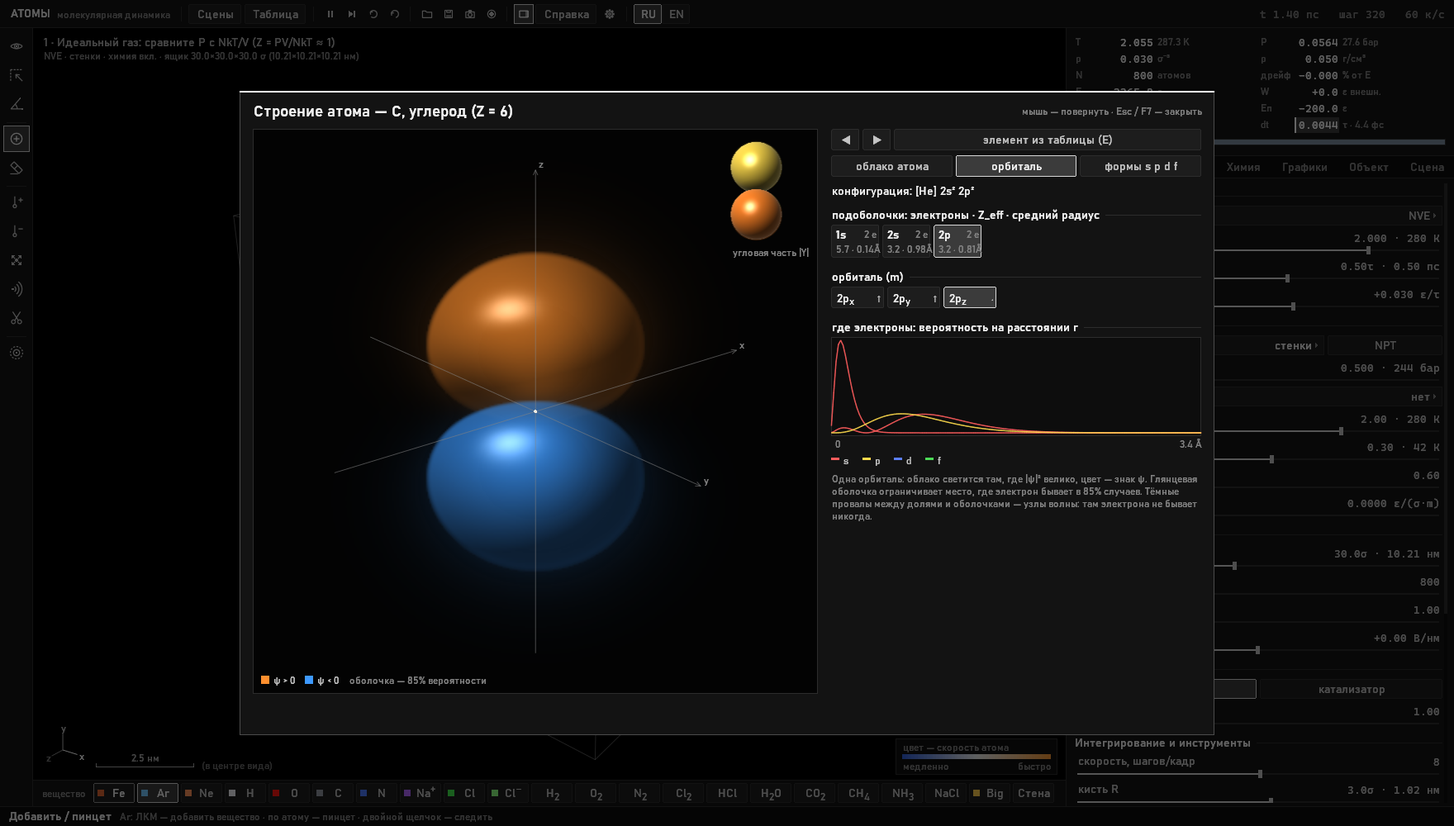
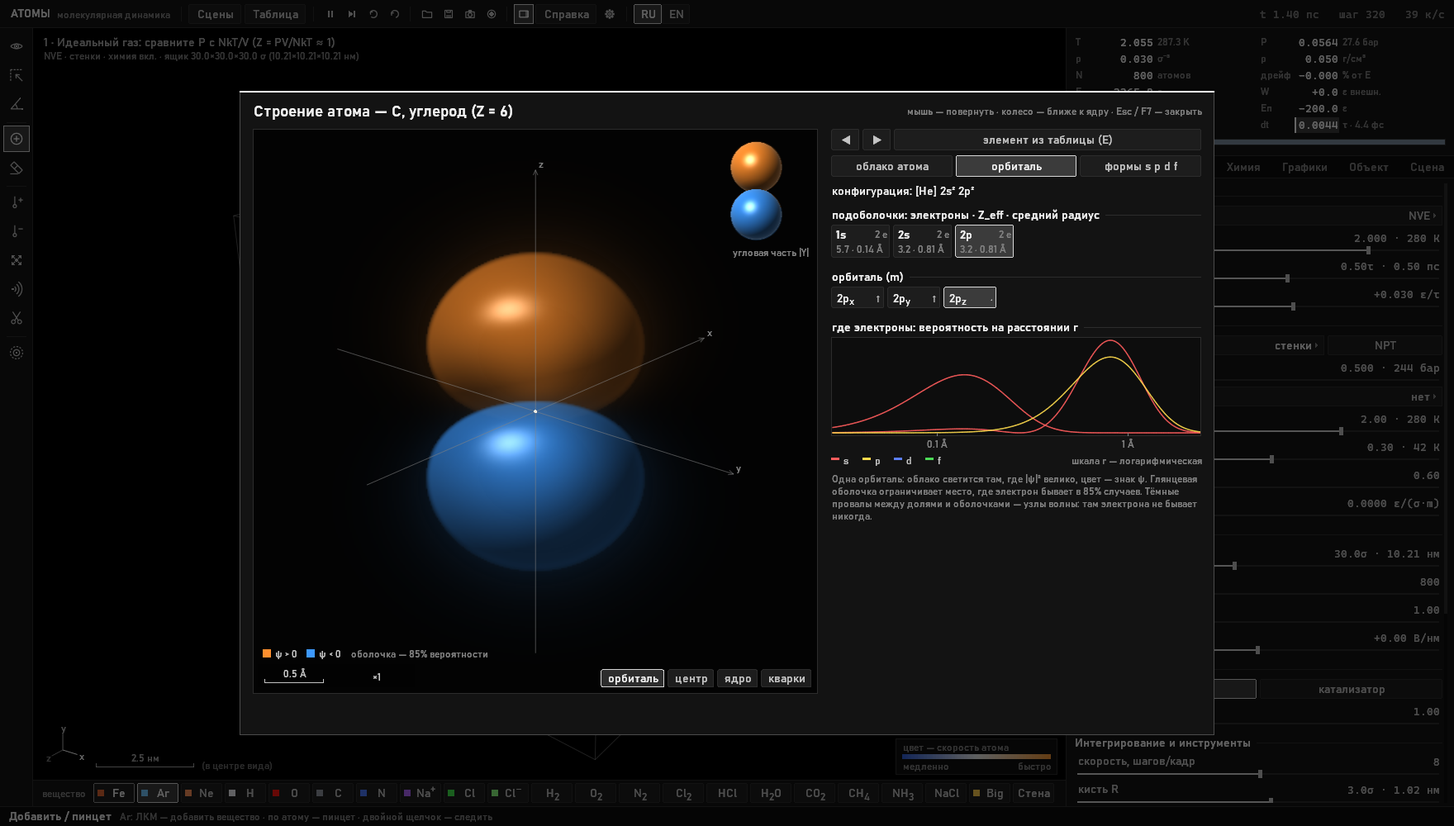
Документация и картинки: приближение в окне «Строение атома»

diff --git a/docs/ИНСТРУКЦИЯ.html b/docs/ИНСТРУКЦИЯ.html
@@ -215,7 +215,7 @@ ul { padding-left: 20px; } li { margin: 3px 0; }
 <tr><td><kbd>Tab</kbd></td><td>меню сцен (повторный выбор той же сцены — её вариант)</td></tr>
 <tr><td><kbd>1</kbd>…<kbd>0</kbd>, <kbd>Shift</kbd>+<kbd>1</kbd>…<kbd>5</kbd></td><td>быстрый запуск сцен (остальные — из меню)</td></tr>
 <tr><td><kbd>E</kbd></td><td>таблица Менделеева</td></tr>
-<tr><td><kbd>F7</kbd></td><td>строение атома: облака электронов и орбитали (элемент — атом под курсором; в окне — ◀ ▶ и «элемент из таблицы»)</td></tr>
+<tr><td><kbd>F7</kbd></td><td>строение атома: облака электронов и орбитали (элемент — атом под курсором; в окне — ◀ ▶ и «элемент из таблицы», колесо и <kbd>+</kbd> <kbd>−</kbd> — ближе к ядру)</td></tr>
 <tr><td><kbd>Shift</kbd>+<kbd>O</kbd></td><td>орбитали в сцене: неподелённые пары, неспаренные электроны, π-облака (см. <a href="#orbitals">Орбитали в молекулах</a>)</td></tr>
 <tr><td><kbd>Пробел</kbd> / <kbd>S</kbd> / <kbd>R</kbd></td><td>пауза / один шаг / сброс сцены</td></tr>
 <tr><td><kbd>Ctrl+Z</kbd></td><td>отмена</td></tr>
@@ -402,8 +402,9 @@ ul { padding-left: 20px; } li { margin: 3px 0; }
   <li><b>облако атома</b> — все электроны; четверть атома вырезана, и на срезе видны слои оболочек (s — красные, p — оранжевые, d — синие, f — зелёные) и тёмные узлы волны между ними. Яркость — вероятность встретить электрон оболочки на этом расстоянии от ядра (r²|ψ|²), как на радиальном графике справа. Электрон не летает по орбите: это стоячая волна, и облако показывает, где его можно найти.</li>
   <li><b>орбиталь</b> — одна орбиталь n, l, m: облако светится там, где |ψ|² велико, цвет — знак ψ (оранжевый — плюс, синий — минус), глянцевая поверхность ограничивает место, где электрон бывает в 85% случаев; в углу — угловая часть |Y|; под кнопками — число электронов на орбитали (0, 1 или 2 — принцип Паули).</li>
   <li><b>формы s p d f</b> — угловые части всех орбиталей гладкими глянцевыми фигурами: одна s, три p, пять d, семь f; оттенок доли — знак волновой функции.</li>
-  <li>Справа — электронная конфигурация, подоболочки с числом электронов, эффективным зарядом ядра Z_eff (правила Слейтера) и средним радиусом, график «где электроны: вероятность на расстоянии r».</li>
-  <li>Мышью облако можно вращать. Радиальные функции — водородоподобные с Z_eff, поэтому размеры приближённые, а формы — точные.</li>
+  <li><b>Приближение</b> — колесо мыши над рисунком, клавиши <kbd>+</kbd> и <kbd>−</kbd> (<kbd>Home</kbd> — весь атом) или кнопки «атом · 1s · ядро · кварки» в углу вида. При увеличении облако переходит в разрез через ядро: каждая оболочка — кольцо (кольца подписаны: 1s, 2s 2p…), у одной орбитали видны доли, узлы и светлая линия поверхности 85%. Внутри оболочки 1s облако почти однородно: у s-электронов плотность у самого ядра наибольшая. Ещё в десятки тысяч раз ближе — ядро из протонов (красные) и нейтронов (серые), ближнюю половину которого срезает та же плоскость, а внутри протона — три кварка u, u, d и «Y»-струна глюонного поля. Внизу слева — линейка масштаба (Å, пм, фм) и увеличение; масштаб сохраняется при смене элемента, так что ядра можно сравнивать.</li>
+  <li>Справа — электронная конфигурация, подоболочки с числом электронов, эффективным зарядом ядра Z_eff и средним радиусом (правила Слейтера с эффективным главным квантовым числом n*), график «где электроны: вероятность на расстоянии r» — по логарифмической шкале r, чтобы у тяжёлых атомов внутренние оболочки не сливались у нуля; подсвечено то, что сейчас в кадре.</li>
+  <li>Мышью облако можно вращать. Радиальные функции — водородоподобные, с узлами настоящей оболочки, а их заряд подобран так, чтобы средний радиус совпадал с орбиталью Слейтера; поэтому размеры приближённые (внешние оболочки тяжёлых атомов — до полутора раз шире настоящих), а формы — точные. Заполненная подоболочка — шар (теорема Унзольда).</li>
 </ul>
 
 <h2 id="worlds">Миры других масштабов</h2>
@@ -509,7 +510,7 @@ ul { padding-left: 20px; } li { margin: 3px 0; }
   <li><b>Свет с длиной волны</b> — <a href="#light">Свет и фотоны</a>.</li>
   <li><b>Шаростержневые молекулы</b> цвета элементов, свечение раскалённых атомов, новый шрифт; модель молекул и шрифт выбираются в <a href="#settings">настройках</a>.</li>
   <li><b>Орбитали в симуляции</b> — связь возникает только вдоль свободной орбитали; облака видны прямо в сцене (<kbd>Shift</kbd>+<kbd>O</kbd>) — <a href="#orbitals">Орбитали в молекулах</a>.</li>
-  <li><b>Строение атома</b> (<kbd>F7</kbd>) — <a href="#atom">облака электронов и орбитали</a>, объёмные: атом в разрезе, орбиталь с глянцевой поверхностью, гладкие формы s, p, d, f.</li>
+  <li><b>Строение атома</b> (<kbd>F7</kbd>) — <a href="#atom">облака электронов и орбитали</a>, объёмные: атом в разрезе, орбиталь с глянцевой поверхностью, гладкие формы s, p, d, f; колесо мыши приближает от облака через оболочку 1s к ядру из протонов и нейтронов и к кваркам внутри протона.</li>
   <li><b>Плавное движение</b>: на экране — средняя форма молекул без дрожи быстрых колебаний, молекулы сразу в тепловом равновесии, время идёт ровно — см. <a href="#physics">Физика</a>.</li>
   <li><b>Миры других масштабов</b>, 19 сцен — <a href="#worlds">ядра, кварки, полупроводники, квантовые волны</a>.</li>
   <li><b>Вкладка «Сцена»</b> — <a href="#editor">редактор границ, стенок и сосуда, расстановка по сетке и заливка</a>.</li>

diff --git a/docs/MANUAL.html b/docs/MANUAL.html
@@ -216,7 +216,7 @@ ul { padding-left: 20px; } li { margin: 3px 0; }
 <tr><td><kbd>Tab</kbd></td><td>scene menu (picking the same scene again opens its variant)</td></tr>
 <tr><td><kbd>1</kbd>…<kbd>0</kbd>, <kbd>Shift</kbd>+<kbd>1</kbd>…<kbd>5</kbd></td><td>quick scene launch (the other scenes — from the menu)</td></tr>
 <tr><td><kbd>E</kbd></td><td>periodic table</td></tr>
-<tr><td><kbd>F7</kbd></td><td>atom structure: electron clouds and orbitals (the element of the atom under the cursor; inside the window — ◀ ▶ and <b>element from the table</b>)</td></tr>
+<tr><td><kbd>F7</kbd></td><td>atom structure: electron clouds and orbitals (the element of the atom under the cursor; inside the window — ◀ ▶ and <b>element from the table</b>, the wheel and <kbd>+</kbd> <kbd>−</kbd> — closer to the nucleus)</td></tr>
 <tr><td><kbd>Shift</kbd>+<kbd>O</kbd></td><td>orbitals in the scene: lone pairs, unpaired electrons, π clouds (see <a href="#orbitals">Orbitals in molecules</a>)</td></tr>
 <tr><td><kbd>Space</kbd> / <kbd>S</kbd> / <kbd>R</kbd></td><td>pause / single step / reset scene</td></tr>
 <tr><td><kbd>Ctrl+Z</kbd></td><td>undo</td></tr>
@@ -403,8 +403,9 @@ ul { padding-left: 20px; } li { margin: 3px 0; }
   <li><b>atom cloud</b> — all electrons; a quarter of the atom is cut away, and the cut shows the layers of the shells (s red, p orange, d blue, f green) and the dark nodes of the wave between them. The brightness is the probability of finding a shell's electron at this distance from the nucleus (r²|ψ|²), as on the radial plot on the right. The electron does not fly along an orbit: it is a standing wave, and the cloud shows where it can be found.</li>
   <li><b>orbital</b> — one orbital n, l, m: the cloud glows where |ψ|² is large, the color is the sign of ψ (orange plus, blue minus), and a glossy surface encloses the region where the electron is found 85% of the time; the corner shows the angular part |Y|; under the buttons — the number of electrons in the orbital (0, 1 or 2 — the Pauli principle).</li>
   <li><b>s p d f shapes</b> — the angular parts of all orbitals as smooth glossy figures: one s, three p, five d, seven f; the shade of a lobe is the sign of the wave function.</li>
-  <li>On the right — the electron configuration, the subshells with their electron counts, the effective nuclear charge Z_eff (Slater's rules) and the mean radius, and the plot "where the electrons are: probability at distance r".</li>
-  <li>The cloud can be rotated with the mouse. The radial functions are hydrogen-like with Z_eff, so sizes are approximate while shapes are exact.</li>
+  <li><b>Zoom</b> — the mouse wheel over the picture, the <kbd>+</kbd> and <kbd>−</kbd> keys (<kbd>Home</kbd> — the whole atom) or the <b>atom · 1s · nucleus · quarks</b> buttons in the corner of the view. As you zoom in, the cloud turns into a cross-section through the nucleus: each shell is a ring (the rings are labeled 1s, 2s 2p…), and a single orbital shows its lobes, nodes and the light line of the 85% surface. Inside the 1s shell the cloud is almost uniform: the density of s electrons is highest right at the nucleus. Tens of thousands of times closer is the nucleus of protons (red) and neutrons (grey) with its near half removed by the same plane, and inside a proton — three quarks u, u, d and the Y-shaped string of the gluon field. The bottom left shows a scale bar (Å, pm, fm) and the magnification; the scale is kept when you change the element, so nuclei can be compared.</li>
+  <li>On the right — the electron configuration, the subshells with their electron counts, the effective nuclear charge Z_eff and the mean radius (Slater's rules with the effective principal quantum number n*), and the plot "where the electrons are: probability at distance r" on a logarithmic r scale, so that the inner shells of heavy atoms do not merge at zero; the part currently in view is highlighted.</li>
+  <li>The cloud can be rotated with the mouse. The radial functions are hydrogen-like, with the nodes of the real shell, and their charge is chosen so that the mean radius equals that of the Slater orbital; so sizes are approximate (the outer shells of heavy atoms up to one and a half times too wide) while shapes are exact. A filled subshell is a sphere (Unsöld's theorem).</li>
 </ul>
 
 <h2 id="worlds">Worlds of other scales</h2>
@@ -510,7 +511,7 @@ ul { padding-left: 20px; } li { margin: 3px 0; }
   <li><b>Light with a wavelength</b> — <a href="#light">Light and photons</a>.</li>
   <li><b>Ball-and-stick molecules</b> in element colors, glow of red-hot atoms, a new font; the molecule model and the font are chosen in the <a href="#settings">settings</a>.</li>
   <li><b>Orbitals in the simulation</b> — a bond forms only along a free orbital; the clouds are visible right in the scene (<kbd>Shift</kbd>+<kbd>O</kbd>) — <a href="#orbitals">Orbitals in molecules</a>.</li>
-  <li><b>Atom structure</b> (<kbd>F7</kbd>) — <a href="#atom">electron clouds and orbitals</a> in 3D: the atom in a cutaway, an orbital with a glossy surface, smooth s, p, d, f shapes.</li>
+  <li><b>Atom structure</b> (<kbd>F7</kbd>) — <a href="#atom">electron clouds and orbitals</a> in 3D: the atom in a cutaway, an orbital with a glossy surface, smooth s, p, d, f shapes; the mouse wheel zooms from the cloud through the 1s shell to the nucleus of protons and neutrons and to the quarks inside a proton.</li>
   <li><b>Smooth motion</b>: the screen shows the average shape of molecules without the jitter of fast vibrations, molecules start in thermal equilibrium, time runs evenly — see <a href="#physics">Physics</a>.</li>
   <li><b>Worlds of other scales</b>, 19 scenes — <a href="#worlds">nuclei, quarks, semiconductors, quantum waves</a>.</li>
   <li><b>The Scene tab</b> — <a href="#editor">an editor of boundaries, walls and the vessel, grid placement and filling</a>.</li>

diff --git a/CHANGELOG.ru.md b/CHANGELOG.ru.md
@@ -10,7 +10,7 @@
 - Свет с длиной волны (вкладка «Химия», клавиша <kbd>L</kbd>): квант рвёт связь, только если молекула его поглощает — Cl₂ распадается от синего света, метан только в дальнем ультрафиолете.
 - Шаростержневые молекулы: глянцевые шары цвета элемента и двухцветные связи-цилиндры, кратные связи — параллельными трубками; ещё ван-дер-ваальсова модель и палочки. Раскалённые атомы светятся по закону Планка. Новый шрифт интерфейса.
 - Орбитали в симуляции: у каждого атома в молекуле есть облака связей, неподелённых пар и неспаренных электронов, расставленные по VSEPR. Связь возникает, только если атомы сошлись вдоль свободной орбитали (стерический фактор): радикал берёт атом по оси своей p-орбитали, атом отрывают с тыла связи, к двойной связи присоединяются сбоку, по π-облаку, протон садится на неподелённую пару. Переключатель — во вкладке «Химия», слой «орбитали» (<kbd>Shift</kbd>+<kbd>O</kbd>) показывает облака прямо в сцене.
-- Строение атома (<kbd>F7</kbd>): облако считается лучами как светящийся газ — у всего атома с вырезанной четвертью, где видны слои оболочек и узлы между ними; у одной орбитали цвет — знак ψ, а глянцевая поверхность ограничивает 85% вероятности; формы s, p, d, f — гладкие глянцевые фигуры. Миниатюра облака в карточке атома.
+- Строение атома (<kbd>F7</kbd>): облако считается лучами как светящийся газ — у всего атома с вырезанной четвертью, где видны слои оболочек и узлы между ними; у одной орбитали цвет — знак ψ, а глянцевая поверхность ограничивает 85% вероятности; формы s, p, d, f — гладкие глянцевые фигуры. Миниатюра облака в карточке атома. Колесо мыши (и <kbd>+</kbd> <kbd>−</kbd>, кнопки «атом · 1s · ядро · кварки») приближает до 140 000 раз: облако переходит в разрез через ядро с подписанными кольцами оболочек, внутри оболочки 1s облако почти однородно, дальше — ядро из протонов и нейтронов, а внутри протона три кварка и струна глюонного поля; внизу линейка масштаба (Å, пм, фм). Размеры оболочек — по правилам Слейтера с эффективным квантовым числом n* (уран рисовался радиусом 18 Å, теперь 5 Å), заполненная f-оболочка — шар, радиальный график — по логарифму r. Исправлено: тёмные «царапины» на долях орбиталей, подписи, вылезавшие из кнопок у тяжёлых атомов, подрагивание осей относительно облака, цвета угловой части в углу — теперь знак ψ, как у облака.
 - Средняя форма молекул на экране: связи с водородом колеблются за 10–30 фс, быстрее кадра, и атомы H дрожали. При комнатной температуре эти колебания «заморожены», поэтому рисуется форма, усреднённая примерно за 60 фс; расчёт не меняется, в настройках можно выключить. Число шагов за кадр выбирается заранее, и время идёт ровно, без рывков.
 - Молекулы ставятся сразу в тепловом равновесии: колебания получают свою долю энергии. Раньше водород в газе оставался холоднее соседей на сотню кельвинов.
 - Миры других масштабов, 19 сцен: ядра (распад, цепочка радона, критическая масса, реактор, ядерный взрыв), кварки (протон изнутри, разрыв струны, столкновение протонов, конструктор адронов, распад нейтрона), полупроводники (диод, светодиод и солнечный элемент, МОП- и биполярный транзисторы), квантовые волны (туннельный эффект, двойная щель, осциллятор, квантовый ковёр, дифракция электронов).

diff --git a/CHANGELOG.md b/CHANGELOG.md
@@ -10,7 +10,7 @@
 - Light with a wavelength (the Chemistry tab, key <kbd>L</kbd>): a quantum breaks a bond only if the molecule absorbs it — Cl₂ splits in blue light, methane only in the far ultraviolet.
 - Ball-and-stick molecules: glossy balls in element colors and two-colored cylinder bonds, multiple bonds as parallel tubes; also van der Waals spheres and sticks. Red-hot atoms glow by Planck's law. A new interface font.
 - Orbitals in the simulation: every atom in a molecule has clouds for its bonds, lone pairs and unpaired electrons, arranged by VSEPR. A bond forms only if the atoms meet along a free orbital (the steric factor): a radical takes an atom along the axis of its p orbital, an atom is pulled off from behind its bond, a radical adds to a double bond from the side, through the π cloud, and a proton lands on a lone pair. The switch is in the Chemistry tab; the orbitals layer (<kbd>Shift</kbd>+<kbd>O</kbd>) shows the clouds right in the scene.
-- Atom structure (<kbd>F7</kbd>): the cloud is ray-traced as a glowing gas — the whole atom with a quarter cut away, showing the shell layers and the nodes between them; a single orbital is colored by the sign of ψ, with a glossy surface enclosing 85% of the probability; the s, p, d, f shapes are smooth glossy figures. A cloud thumbnail in the atom card.
+- Atom structure (<kbd>F7</kbd>): the cloud is ray-traced as a glowing gas — the whole atom with a quarter cut away, showing the shell layers and the nodes between them; a single orbital is colored by the sign of ψ, with a glossy surface enclosing 85% of the probability; the s, p, d, f shapes are smooth glossy figures. A cloud thumbnail in the atom card. The mouse wheel (and <kbd>+</kbd> <kbd>−</kbd>, the atom · 1s · nucleus · quarks buttons) zooms in up to 140,000 times: the cloud turns into a cross-section through the nucleus with labeled shell rings, inside the 1s shell the cloud is almost uniform, then comes the nucleus of protons and neutrons, and inside a proton three quarks and the gluon field string; a scale bar (Å, pm, fm) at the bottom. Shell sizes follow Slater's rules with the effective quantum number n* (uranium was drawn with an 18 Å radius, now 5 Å), a filled f subshell is a sphere, the radial plot uses a logarithmic r. Fixed: dark "scratches" on orbital lobes, labels overflowing the buttons for heavy atoms, the axes jittering against the cloud, the colors of the angular part in the corner — now the sign of ψ, as in the cloud.
 - The average shape of molecules on screen: bonds to hydrogen vibrate in 10–30 fs, faster than a frame, and H atoms jittered. At room temperature these vibrations are "frozen", so the shape averaged over about 60 fs is drawn; the simulation does not change, and it can be turned off in the settings. The number of steps per frame is chosen in advance, so time runs evenly, without jerks.
 - Molecules are placed already in thermal equilibrium: vibrations get their share of energy at once. Previously hydrogen in a gas stayed a hundred kelvins colder than its neighbors.
 - Worlds of other scales, 19 scenes: nuclei (decay, the radon chain, critical mass, a reactor, a nuclear explosion), quarks (inside a proton, string breaking, proton collision, a hadron builder, neutron decay), semiconductors (a diode, an LED and a solar cell, MOS and bipolar transistors), quantum waves (tunneling, the double slit, an oscillator, the quantum carpet, electron diffraction).

diff --git a/.github/release-notes.md b/.github/release-notes.md
@@ -7,7 +7,7 @@ Download **AtomsSetup.exe** — a one-file installer: pick a folder, get shortcu
 - Valence counted by electrons: hypervalent SF₆, PCl₅, XeF₄, H₂SO₄; lone pairs set the shape of a molecule; Marcus barriers
 - Ball-and-stick molecules in element colors, glow of red-hot atoms, a new font
 - Orbitals in the simulation: a bond forms only if the atoms meet along a free orbital; the electron clouds are shown right in the scene (<kbd>Shift</kbd>+<kbd>O</kbd>)
-- Atom structure (<kbd>F7</kbd>): a glowing electron cloud with a quarter cut away, a single orbital colored by the sign of ψ with its 85% surface, smooth shapes of s, p, d, f orbitals
+- Atom structure (<kbd>F7</kbd>): a glowing electron cloud with a quarter cut away, a single orbital colored by the sign of ψ with its 85% surface, smooth shapes of s, p, d, f orbitals; the mouse wheel zooms into the atom — through the shells to the nucleus of protons and neutrons and the quarks inside a proton
 - The average shape of molecules on screen: hydrogen atoms no longer jitter; molecules are placed already in thermal equilibrium
 - Light with a wavelength: a quantum breaks a bond only if the molecule absorbs it
 - 19 scenes in worlds of other scales: nuclei and chain reactions, quarks, semiconductors, quantum waves
@@ -38,7 +38,7 @@ The full list of changes is in [CHANGELOG.md](https://github.com/felixxxrrr8-afk
 - Валентность по электронам: гипервалентные SF₆, PCl₅, XeF₄, H₂SO₄; неподелённые пары задают форму молекулы; барьеры по Маркусу
 - Шаростержневые молекулы цвета элементов, свечение раскалённых атомов, новый шрифт
 - Орбитали в симуляции: связь возникает, только если атомы сошлись вдоль свободной орбитали; облака электронов видны прямо в сцене (<kbd>Shift</kbd>+<kbd>O</kbd>)
-- Строение атома (<kbd>F7</kbd>): светящееся облако электронов с вырезанной четвертью, орбиталь с цветом по знаку ψ и поверхностью 85%, гладкие формы орбиталей s, p, d, f
+- Строение атома (<kbd>F7</kbd>): светящееся облако электронов с вырезанной четвертью, орбиталь с цветом по знаку ψ и поверхностью 85%, гладкие формы орбиталей s, p, d, f; колесо мыши приближает внутрь атома — через оболочки к ядру из протонов и нейтронов и к кваркам внутри протона
 - Средняя форма молекул на экране: водород больше не дрожит; молекулы ставятся сразу в тепловом равновесии
 - Свет с длиной волны: квант рвёт связь, только если молекула его поглощает
 - 19 сцен в мирах других масштабов: ядра и цепная реакция, кварки, полупроводники, квантовые волны

diff --git a/README.ru.md b/README.ru.md
@@ -199,6 +199,10 @@
 <td><img src="docs/ru/orbital-2p.png" alt="Орбиталь 2p углерода"><br><sub><b>Орбиталь 2p углерода.</b> Две доли разного знака ψ, между ними — узловая плоскость, где электрона не бывает</sub></td>
 </tr>
 <tr>
+<td><img src="docs/ru/atom-rings.png" alt="Разрез атома урана"><br><sub><b>Ближе к ядру (колесо мыши в F7).</b> Разрез атома урана через ядро: каждая оболочка — кольцо, чем ближе к ядру, тем теснее и ярче</sub></td>
+<td><img src="docs/ru/atom-quarks.png" alt="Протон внутри атома водорода"><br><sub><b>Атом водорода в 140 000 раз ближе.</b> Ядро — протон, а внутри три кварка u, u, d и «Y»-струна глюонного поля</sub></td>
+</tr>
+<tr>
 <td><img src="docs/ru/double-slit.png" alt="Двойная щель"><br><sub><b>Двойная щель.</b> Уравнение Шрёдингера на сетке 256×256; цвет — фаза волны, справа — попадания на экране</sub></td>
 <td><img src="docs/ru/tunneling.png" alt="Туннельный эффект"><br><sub><b>Туннельный эффект.</b> Прошло сквозь барьер 16.6%, теория для плоской волны — 15.3%</sub></td>
 </tr>

diff --git a/README.md b/README.md
@@ -199,6 +199,10 @@ Next to them are worlds of other scales: nuclei and chain reactions, quarks, sem
 <td><img src="docs/en/orbital-2p.png" alt="The 2p orbital of carbon"><br><sub><b>The 2p orbital of carbon.</b> Two lobes of opposite sign of ψ with a nodal plane between them, where the electron never is</sub></td>
 </tr>
 <tr>
+<td><img src="docs/en/atom-rings.png" alt="A uranium atom in cross-section"><br><sub><b>Closer to the nucleus (mouse wheel in F7).</b> A cross-section of a uranium atom through the nucleus: each shell is a ring, tighter and brighter closer to the nucleus</sub></td>
+<td><img src="docs/en/atom-quarks.png" alt="A proton inside a hydrogen atom"><br><sub><b>A hydrogen atom 140,000 times closer.</b> The nucleus is a proton, and inside it are three quarks u, u, d and the Y-shaped string of the gluon field</sub></td>
+</tr>
+<tr>
 <td><img src="docs/en/double-slit.png" alt="Double slit"><br><sub><b>Double slit.</b> The Schrödinger equation on a 256×256 grid; color is the phase of the wave, hits on the screen on the right</sub></td>
 <td><img src="docs/en/tunneling.png" alt="Tunneling"><br><sub><b>Tunneling.</b> 16.6% got through the barrier; plane-wave theory says 15.3%</sub></td>
 </tr>
